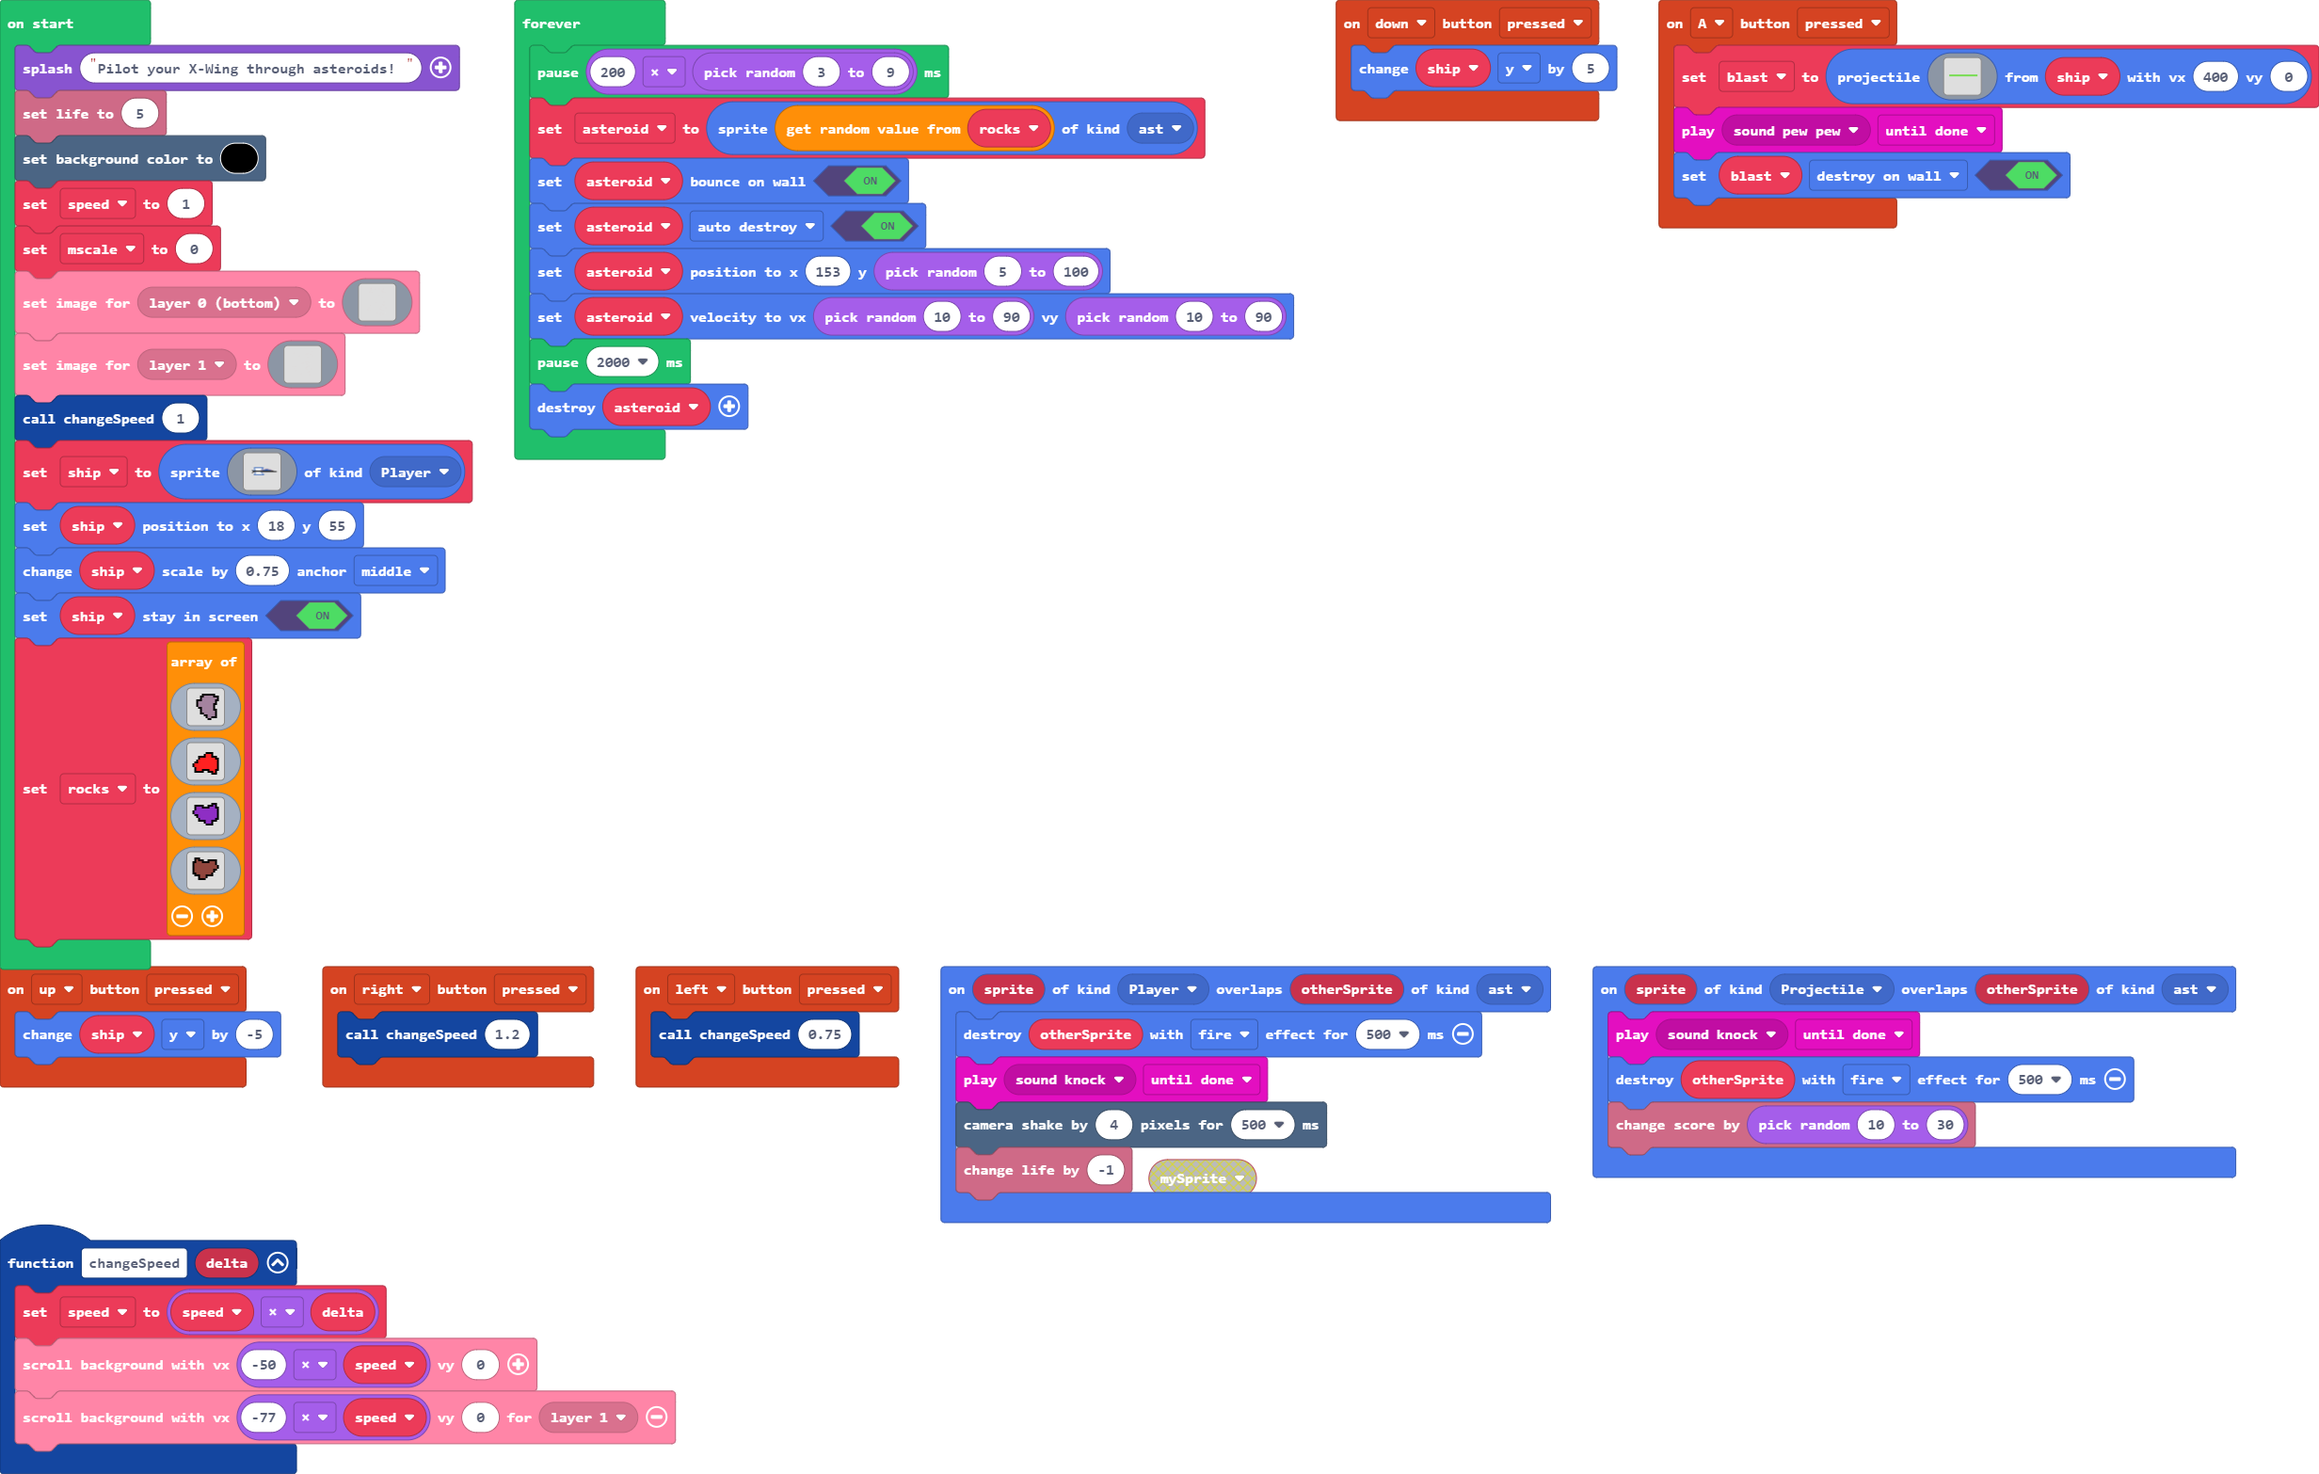
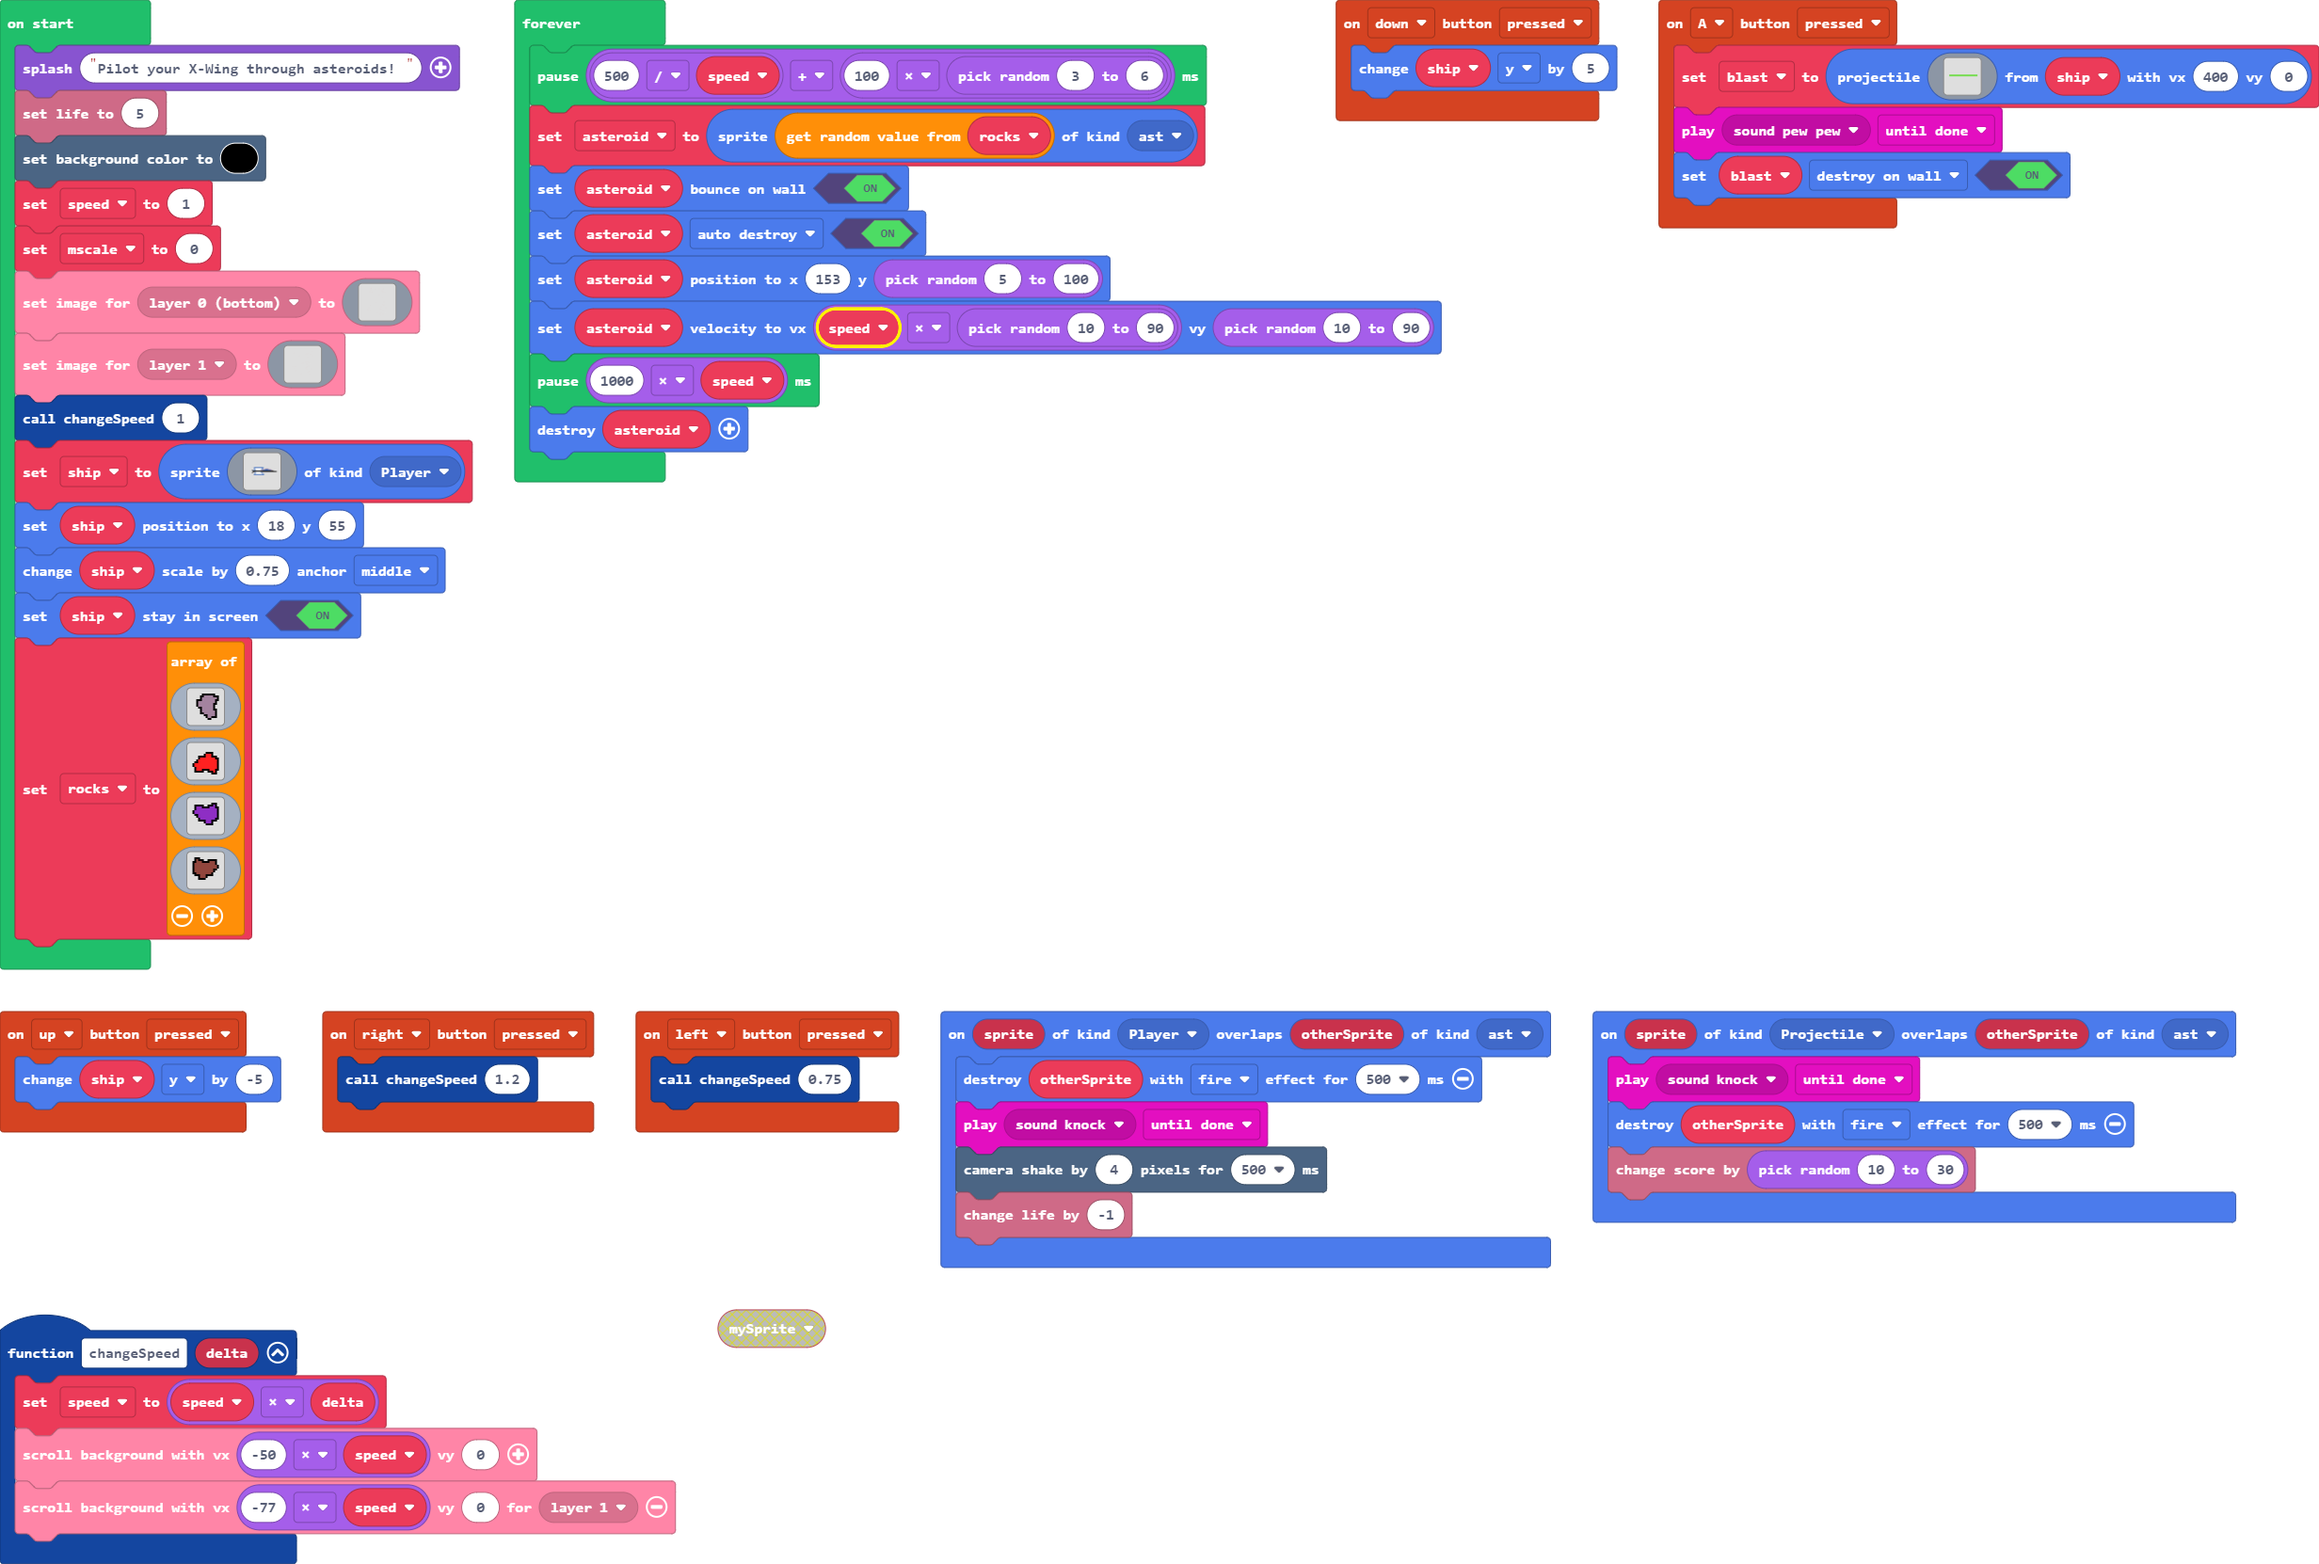
Update main.blocks, main.ts

diff --git a/main.ts b/main.ts
@@ -57,12 +57,12 @@ assets.image`rock1`,
 assets.image`rock2`
 ]
 forever(function () {
-    pause(200 * randint(3, 9))
+    pause(500 / speed + 100 * randint(3, 6))
     asteroid = sprites.create(rocks._pickRandom(), SpriteKind.ast)
     asteroid.setBounceOnWall(true)
     asteroid.setFlag(SpriteFlag.AutoDestroy, true)
     asteroid.setPosition(153, randint(5, 100))
-    asteroid.setVelocity(randint(10, 90), randint(10, 90))
-    pause(2000)
+    asteroid.setVelocity(speed * randint(10, 90), randint(10, 90))
+    pause(1000 * speed)
     sprites.destroy(asteroid)
 })
